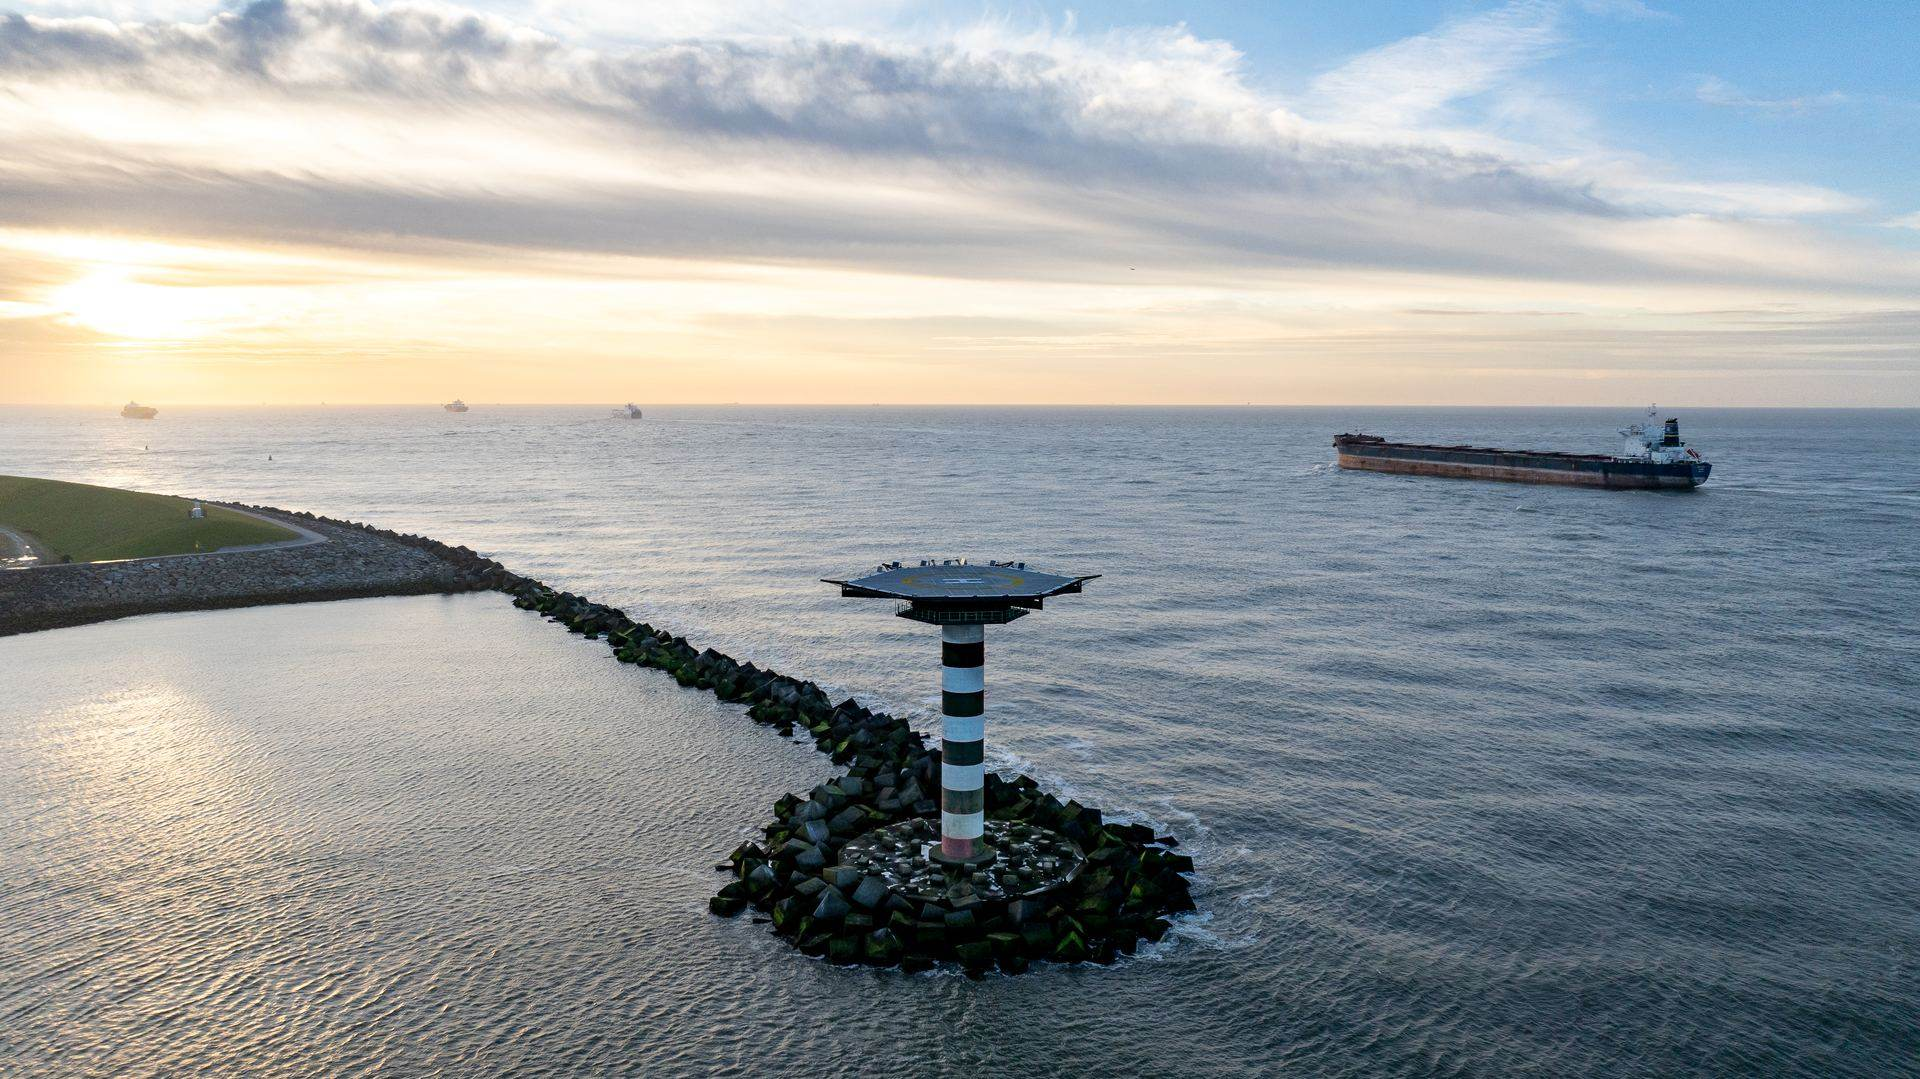
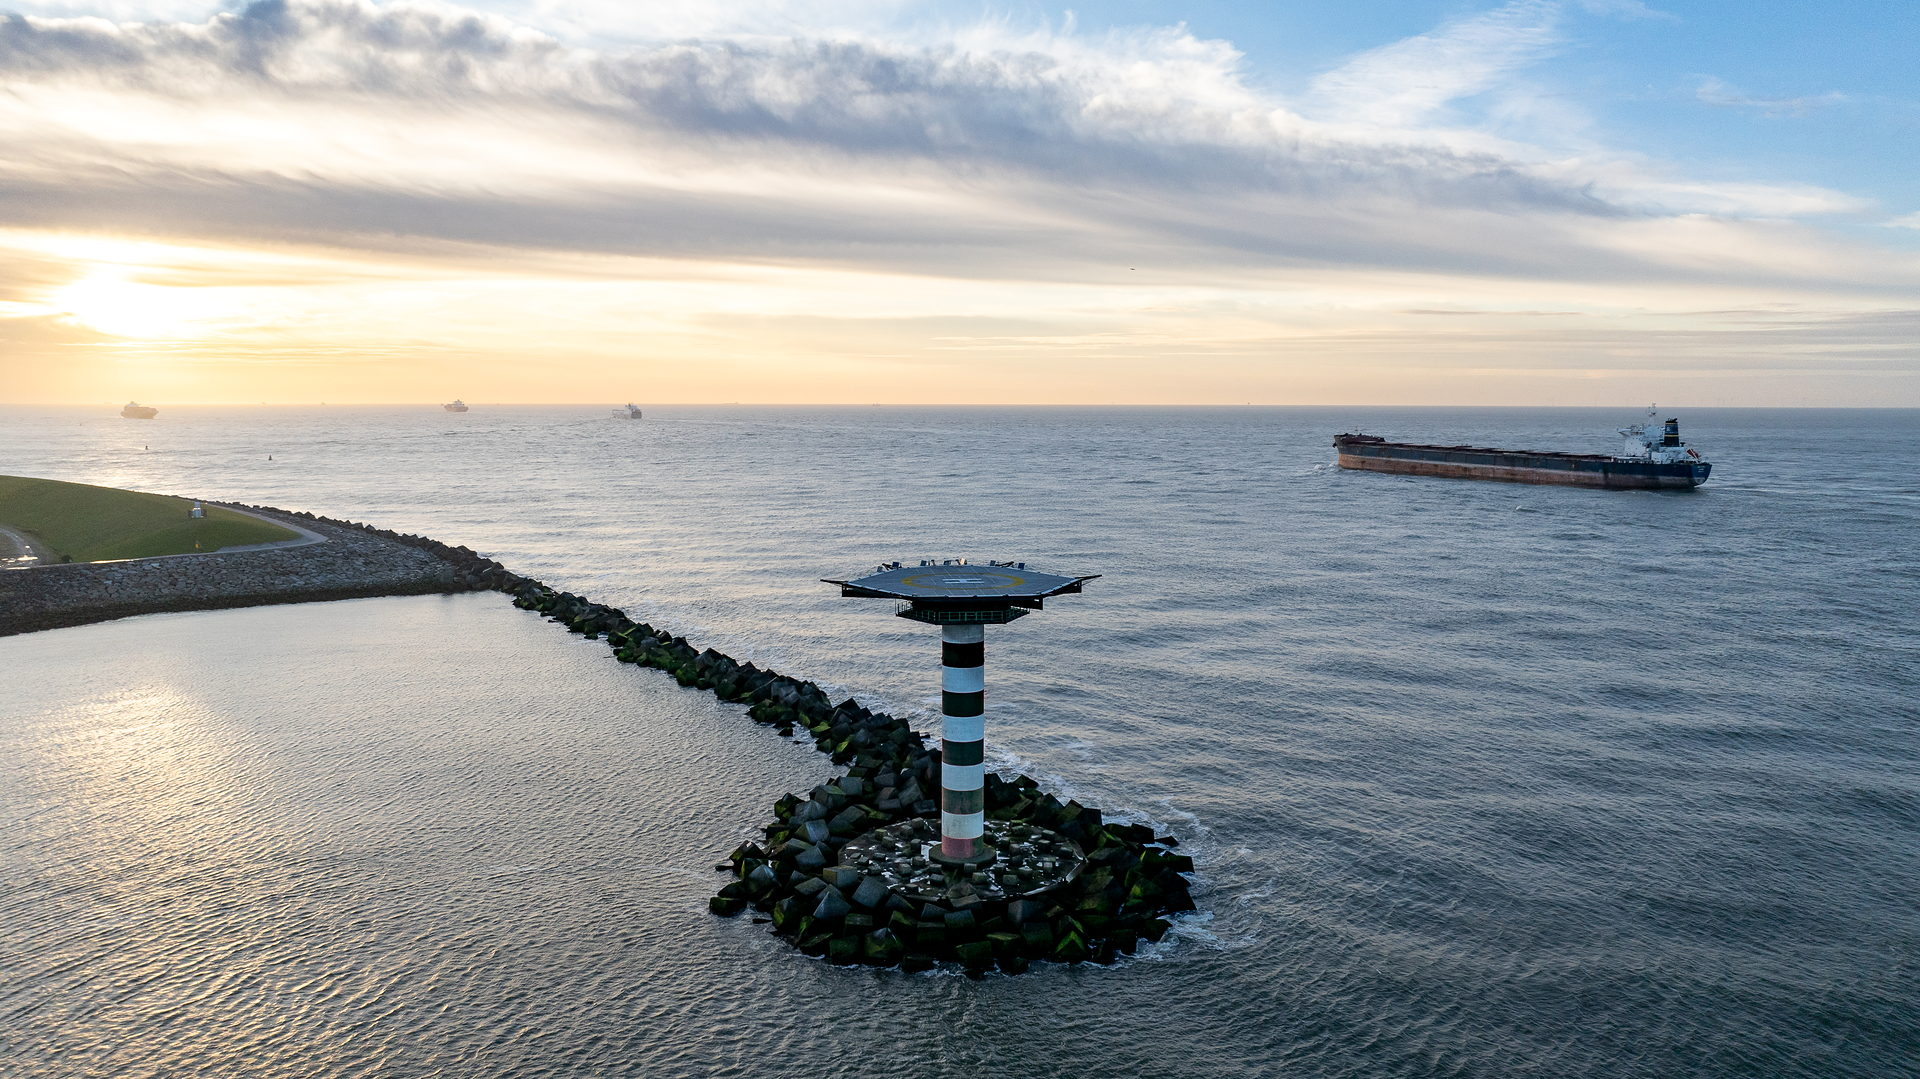
Photos: heroes, band and three cards regenerated from Rogier's originals at 1600/1920/2400/3200 (q82, light unsharp) with srcset/sizes; build-images.py

diff --git a/agency.html b/agency.html
@@ -43,7 +43,7 @@
 <main>
   <section class="hero short">
     <div class="media">
-      <img fetchpriority="high" src="assets/hero-agency-5.jpg" style="object-position:50% 54%" alt="Grab crane discharging coal into an inland barge, sea-going vessel behind">
+      <img fetchpriority="high" src="assets/hero-agency-5.jpg" srcset="assets/hero-agency-5-w1600.jpg 1600w, assets/hero-agency-5.jpg 1920w, assets/hero-agency-5-w2400.jpg 2400w, assets/hero-agency-5-w3200.jpg 3200w" sizes="100vw" style="object-position:50% 54%" alt="Grab crane discharging coal into an inland barge, sea-going vessel behind">
     </div>
     <div class="wrap">
       <p class="eyebrow">Ship&rsquo;s agency &middot; the Netherlands and Belgium</p>
@@ -83,7 +83,7 @@
           <h3>Crewing services</h3>
         </div>
         <div class="svc card">
-          <img class="cardimg" loading="lazy" decoding="async" src="assets/card-layby-2.jpg" alt="Vessels alongside in the Botlek at dusk">
+          <img class="cardimg" loading="lazy" decoding="async" src="assets/card-layby-2.jpg" srcset="assets/card-layby-2.jpg 900w, assets/card-layby-2-w1800.jpg 1800w" sizes="(max-width:660px) 100vw, (max-width:880px) 50vw, 340px" alt="Vessels alongside in the Botlek at dusk">
           <h3>Lay-by services</h3>
         </div>
         <div class="svc card">
@@ -91,7 +91,7 @@
           <h3>Repair services</h3>
         </div>
         <div class="svc card">
-          <img class="cardimg" loading="lazy" decoding="async" src="assets/card-handling.jpg" alt="Bulk terminal with cranes and cargo stacks seen from the air">
+          <img class="cardimg" loading="lazy" decoding="async" src="assets/card-handling.jpg" srcset="assets/card-handling.jpg 900w, assets/card-handling-w1800.jpg 1800w" sizes="(max-width:660px) 100vw, (max-width:880px) 50vw, 340px" alt="Bulk terminal with cranes and cargo stacks seen from the air">
           <h3>Cargo handling</h3>
         </div>
       </div>

diff --git a/agency-nl.html b/agency-nl.html
@@ -43,7 +43,7 @@
 <main>
   <section class="hero short">
     <div class="media">
-      <img fetchpriority="high" src="assets/hero-agency-5.jpg" style="object-position:50% 54%" alt="Grijperkraan lost kolen in een binnenvaartschip, zeeschip erachter">
+      <img fetchpriority="high" src="assets/hero-agency-5.jpg" srcset="assets/hero-agency-5-w1600.jpg 1600w, assets/hero-agency-5.jpg 1920w, assets/hero-agency-5-w2400.jpg 2400w, assets/hero-agency-5-w3200.jpg 3200w" sizes="100vw" style="object-position:50% 54%" alt="Grijperkraan lost kolen in een binnenvaartschip, zeeschip erachter">
     </div>
     <div class="wrap">
       <p class="eyebrow">Scheepsagentuur &middot; Nederland en België</p>
@@ -83,7 +83,7 @@
           <h3>Bemanningsdiensten</h3>
         </div>
         <div class="svc card">
-          <img class="cardimg" loading="lazy" decoding="async" src="assets/card-layby-2.jpg" alt="Schepen aan de kade in de Botlek bij avond">
+          <img class="cardimg" loading="lazy" decoding="async" src="assets/card-layby-2.jpg" srcset="assets/card-layby-2.jpg 900w, assets/card-layby-2-w1800.jpg 1800w" sizes="(max-width:660px) 100vw, (max-width:880px) 50vw, 340px" alt="Schepen aan de kade in de Botlek bij avond">
           <h3>Lay-by-diensten</h3>
         </div>
         <div class="svc card">
@@ -91,7 +91,7 @@
           <h3>Reparatiediensten</h3>
         </div>
         <div class="svc card">
-          <img class="cardimg" loading="lazy" decoding="async" src="assets/card-handling.jpg" alt="Bulkterminal met kranen en ladingbergen vanuit de lucht">
+          <img class="cardimg" loading="lazy" decoding="async" src="assets/card-handling.jpg" srcset="assets/card-handling.jpg 900w, assets/card-handling-w1800.jpg 1800w" sizes="(max-width:660px) 100vw, (max-width:880px) 50vw, 340px" alt="Bulkterminal met kranen en ladingbergen vanuit de lucht">
           <h3>Ladingbehandeling</h3>
         </div>
       </div>

diff --git a/chartering.html b/chartering.html
@@ -43,7 +43,7 @@
 <main>
   <section class="hero short">
     <div class="media">
-      <img fetchpriority="high" src="assets/hero-chartering-2.jpg" style="object-position:60% 42%" alt="Beacon at the Maasvlakte with a bulk carrier on the horizon">
+      <img fetchpriority="high" src="assets/hero-chartering-2.jpg" srcset="assets/hero-chartering-2-w1600.jpg 1600w, assets/hero-chartering-2.jpg 1920w, assets/hero-chartering-2-w2400.jpg 2400w, assets/hero-chartering-2-w3200.jpg 3200w" sizes="100vw" style="object-position:60% 42%" alt="Beacon at the Maasvlakte with a bulk carrier on the horizon">
     </div>
     <div class="wrap">
       <p class="eyebrow">Chartering &middot; freight calculation &middot; forwarding</p>
@@ -87,7 +87,7 @@
           <p>One cargo, one voyage: we fix the vessel for a single shipment, load port to discharge port.</p>
         </div>
         <div class="svc card">
-          <img class="cardimg" loading="lazy" decoding="async" src="assets/card-time-2.jpg" alt="Bulk carrier seen straight from above on green water">
+          <img class="cardimg" loading="lazy" decoding="async" src="assets/card-time-2.jpg" srcset="assets/card-time-2.jpg 900w" sizes="(max-width:660px) 100vw, (max-width:880px) 50vw, 340px" alt="Bulk carrier seen straight from above on green water">
           <h3>Time charter</h3>
           <p>A vessel at your disposal for a period, with the crew and the day-to-day operation taken care of.</p>
         </div>

diff --git a/chartering-nl.html b/chartering-nl.html
@@ -43,7 +43,7 @@
 <main>
   <section class="hero short">
     <div class="media">
-      <img fetchpriority="high" src="assets/hero-chartering-2.jpg" style="object-position:60% 42%" alt="Baken op de Maasvlakte met een bulkcarrier aan de horizon">
+      <img fetchpriority="high" src="assets/hero-chartering-2.jpg" srcset="assets/hero-chartering-2-w1600.jpg 1600w, assets/hero-chartering-2.jpg 1920w, assets/hero-chartering-2-w2400.jpg 2400w, assets/hero-chartering-2-w3200.jpg 3200w" sizes="100vw" style="object-position:60% 42%" alt="Baken op de Maasvlakte met een bulkcarrier aan de horizon">
     </div>
     <div class="wrap">
       <p class="eyebrow">Bevrachting &middot; vrachtcalculatie &middot; expeditie</p>
@@ -87,7 +87,7 @@
           <p>Eén lading, één reis: wij bevrachten het schip voor een enkele zending, van laadhaven tot loshaven.</p>
         </div>
         <div class="svc card">
-          <img class="cardimg" loading="lazy" decoding="async" src="assets/card-time-2.jpg" alt="Bulkcarrier recht van boven op groen water">
+          <img class="cardimg" loading="lazy" decoding="async" src="assets/card-time-2.jpg" srcset="assets/card-time-2.jpg 900w" sizes="(max-width:660px) 100vw, (max-width:880px) 50vw, 340px" alt="Bulkcarrier recht van boven op groen water">
           <h3>Tijdbevrachting</h3>
           <p>Een schip voor een bepaalde periode tot uw beschikking, met bemanning en dagelijkse operatie geregeld.</p>
         </div>

diff --git a/index-nl.html b/index-nl.html
@@ -56,7 +56,7 @@
 <main>
   <section class="hero">
     <div class="media">
-      <img fetchpriority="high" src="assets/hero-home-3.jpg" alt="Bulkcarrier vaart de Maasmond uit bij zonsondergang">
+      <img fetchpriority="high" src="assets/hero-home-3.jpg" srcset="assets/hero-home-3-w1600.jpg 1600w, assets/hero-home-3.jpg 1920w, assets/hero-home-3-w2400.jpg 2400w, assets/hero-home-3-w3200.jpg 3200w" sizes="100vw" alt="Bulkcarrier vaart de Maasmond uit bij zonsondergang">
     </div>
     <div class="wrap">
       <p class="eyebrow">Scheepsmakelaars en scheepsagenten &middot; Rotterdam &middot; Antwerpen &middot; sinds 1976</p>
@@ -117,7 +117,7 @@
   </section>
 
   <section class="band-photo">
-    <img loading="lazy" decoding="async" src="assets/band-maasmond.jpg" alt="Schepen in de rij bij de Maasmond bij zonsondergang">
+    <img loading="lazy" decoding="async" src="assets/band-maasmond.jpg" srcset="assets/band-maasmond-w1600.jpg 1600w, assets/band-maasmond.jpg 1920w, assets/band-maasmond-w2400.jpg 2400w, assets/band-maasmond-w3200.jpg 3200w" sizes="100vw" alt="Schepen in de rij bij de Maasmond bij zonsondergang">
   </section>
 
   <section class="band">

diff --git a/index.html b/index.html
@@ -56,7 +56,7 @@
 <main>
   <section class="hero">
     <div class="media">
-      <img fetchpriority="high" src="assets/hero-home-3.jpg" alt="Bulk carrier leaving the Maasmond at sunset">
+      <img fetchpriority="high" src="assets/hero-home-3.jpg" srcset="assets/hero-home-3-w1600.jpg 1600w, assets/hero-home-3.jpg 1920w, assets/hero-home-3-w2400.jpg 2400w, assets/hero-home-3-w3200.jpg 3200w" sizes="100vw" alt="Bulk carrier leaving the Maasmond at sunset">
     </div>
     <div class="wrap">
       <p class="eyebrow">Ship brokers and agents &middot; Rotterdam &middot; Antwerp &middot; since 1976</p>
@@ -117,7 +117,7 @@
   </section>
 
   <section class="band-photo">
-    <img loading="lazy" decoding="async" src="assets/band-maasmond.jpg" alt="Ships in line at the Maasmond entrance at sunset">
+    <img loading="lazy" decoding="async" src="assets/band-maasmond.jpg" srcset="assets/band-maasmond-w1600.jpg 1600w, assets/band-maasmond.jpg 1920w, assets/band-maasmond-w2400.jpg 2400w, assets/band-maasmond-w3200.jpg 3200w" sizes="100vw" alt="Ships in line at the Maasmond entrance at sunset">
   </section>
 
   <section class="band">

diff --git a/contact-nl.html b/contact-nl.html
@@ -43,7 +43,7 @@
 <main>
   <section class="hero short">
     <div class="media">
-      <img fetchpriority="high" src="assets/hero-contact-2.jpg" alt="Sleepboot op het water bij de Maasvlakte bij zonsondergang">
+      <img fetchpriority="high" src="assets/hero-contact-2.jpg" srcset="assets/hero-contact-2-w1600.jpg 1600w, assets/hero-contact-2.jpg 1920w, assets/hero-contact-2-w2400.jpg 2400w, assets/hero-contact-2-w3200.jpg 3200w" sizes="100vw" alt="Sleepboot op het water bij de Maasvlakte bij zonsondergang">
     </div>
     <div class="wrap">
       <p class="eyebrow">Contact</p>

diff --git a/contact.html b/contact.html
@@ -43,7 +43,7 @@
 <main>
   <section class="hero short">
     <div class="media">
-      <img fetchpriority="high" src="assets/hero-contact-2.jpg" alt="Tug under way off the Maasvlakte at sunset">
+      <img fetchpriority="high" src="assets/hero-contact-2.jpg" srcset="assets/hero-contact-2-w1600.jpg 1600w, assets/hero-contact-2.jpg 1920w, assets/hero-contact-2-w2400.jpg 2400w, assets/hero-contact-2-w3200.jpg 3200w" sizes="100vw" alt="Tug under way off the Maasvlakte at sunset">
     </div>
     <div class="wrap">
       <p class="eyebrow">Contact</p>

diff --git a/build-images.py b/build-images.py
@@ -1,0 +1,56 @@
+#!/usr/bin/env python3
+"""Regenerate the photographer shots from Rogier's originals at retina sizes.
+
+  python3 build-images.py "/path/to/Stock foto's Libra"
+
+Writes assets/<name>.jpg (fallback, same width as before) plus assets/<name>-w{1600,2400,3200}.jpg
+for heroes/band and assets/<name>-w1800.jpg for cards, LANCZOS + light unsharp, JPEG q82 progressive.
+The band keeps its green tint via a colour matrix fitted to the current tinted file.
+AI/stock placeholders (crewing, husbandry, bunkering, repair, voyage, freight, portraits) are untouched.
+"""
+import pathlib, sys
+import numpy as np
+from PIL import Image, ImageFilter
+SRC = pathlib.Path(sys.argv[1]); OUT = pathlib.Path(__file__).parent / "assets"
+HERO_W = (1600, 2400, 3200)
+# name: (original, crop box as fractions l,t,r,b, fallback width, extra widths, tinted?)
+SHOTS = {
+ "hero-home-3":        ("Portstock-21.jpg", (0,0,.72,1),   1920, HERO_W, False),
+ "hero-agency-5":      ("Portstock-35.jpg", (0,0,.70,1),   1920, HERO_W, False),
+ "hero-chartering-2":  ("Portstock-22.jpg", (0,0,1,1),     1920, HERO_W, False),
+ "hero-contact-2":     ("Portstock-9.jpg",  (0,0,1,1),     1920, HERO_W, False),
+ "band-maasmond":      ("Portstock-26.jpg", (0,0,1,1),     1920, HERO_W, True),
+ "card-handling":      ("Portstock-20.jpg", (320/5146,0,4656/5146,1), 900, (1800,), False),
+ "card-time-2":        ("Portstock-34.jpg", (198/2048,0,1848/2048,1), 900, (1800,), False),
+ "card-layby-2":       ("Portstock-30.jpg", (84/3906,0,3417/3906,1),  900, (1800,), False),
+}
+
+def fit_tint():
+    """3x4 colour matrix: original -> current tinted band (least squares on thumbnails)."""
+    cur = Image.open(OUT/"band-maasmond.jpg").convert("RGB")
+    org = Image.open(SRC/"Portstock-26.jpg").convert("RGB").resize(cur.size, Image.LANCZOS)
+    a = np.asarray(org.resize((480,270), Image.BOX)).reshape(-1,3).astype(float)/255
+    b = np.asarray(cur.resize((480,270), Image.BOX)).reshape(-1,3).astype(float)/255
+    A = np.hstack([a, np.ones((len(a),1))])
+    M, *_ = np.linalg.lstsq(A, b, rcond=None)
+    err = np.abs(A@M - b).mean()*255
+    print(f"tint matrix fitted, mean error {err:.1f}/255")
+    return M
+def apply_tint(im, M):
+    a = np.asarray(im.convert("RGB")).astype(float)/255
+    A = np.concatenate([a, np.ones(a.shape[:2]+(1,))], -1)
+    return Image.fromarray((np.clip(A@M,0,1)*255).round().astype("uint8"))
+
+def save(im, path, w):
+    h = round(w * im.size[1] / im.size[0])
+    r = im.resize((w,h), Image.LANCZOS).filter(ImageFilter.UnsharpMask(radius=0.8, percent=45, threshold=2))
+    r.save(path, "JPEG", quality=76 if w>=3000 else 82, optimize=True, progressive=True, subsampling=1)
+    return path.stat().st_size//1024
+
+M = fit_tint()
+for name,(orig,(l,t,r,b),fw,extra,tint) in SHOTS.items():
+    im = Image.open(SRC/orig).convert("RGB"); W,H = im.size
+    im = im.crop((round(l*W), round(t*H), round(r*W), round(b*H)))
+    if tint: im = apply_tint(im, M)
+    sizes = [(fw, OUT/f"{name}.jpg")] + [(w, OUT/f"{name}-w{w}.jpg") for w in extra if w < im.size[0]*1.02]
+    print(name, "from", orig, im.size, "->", ", ".join(f"{w}px {save(im,p,min(w,im.size[0]))}KB" for w,p in sizes))
